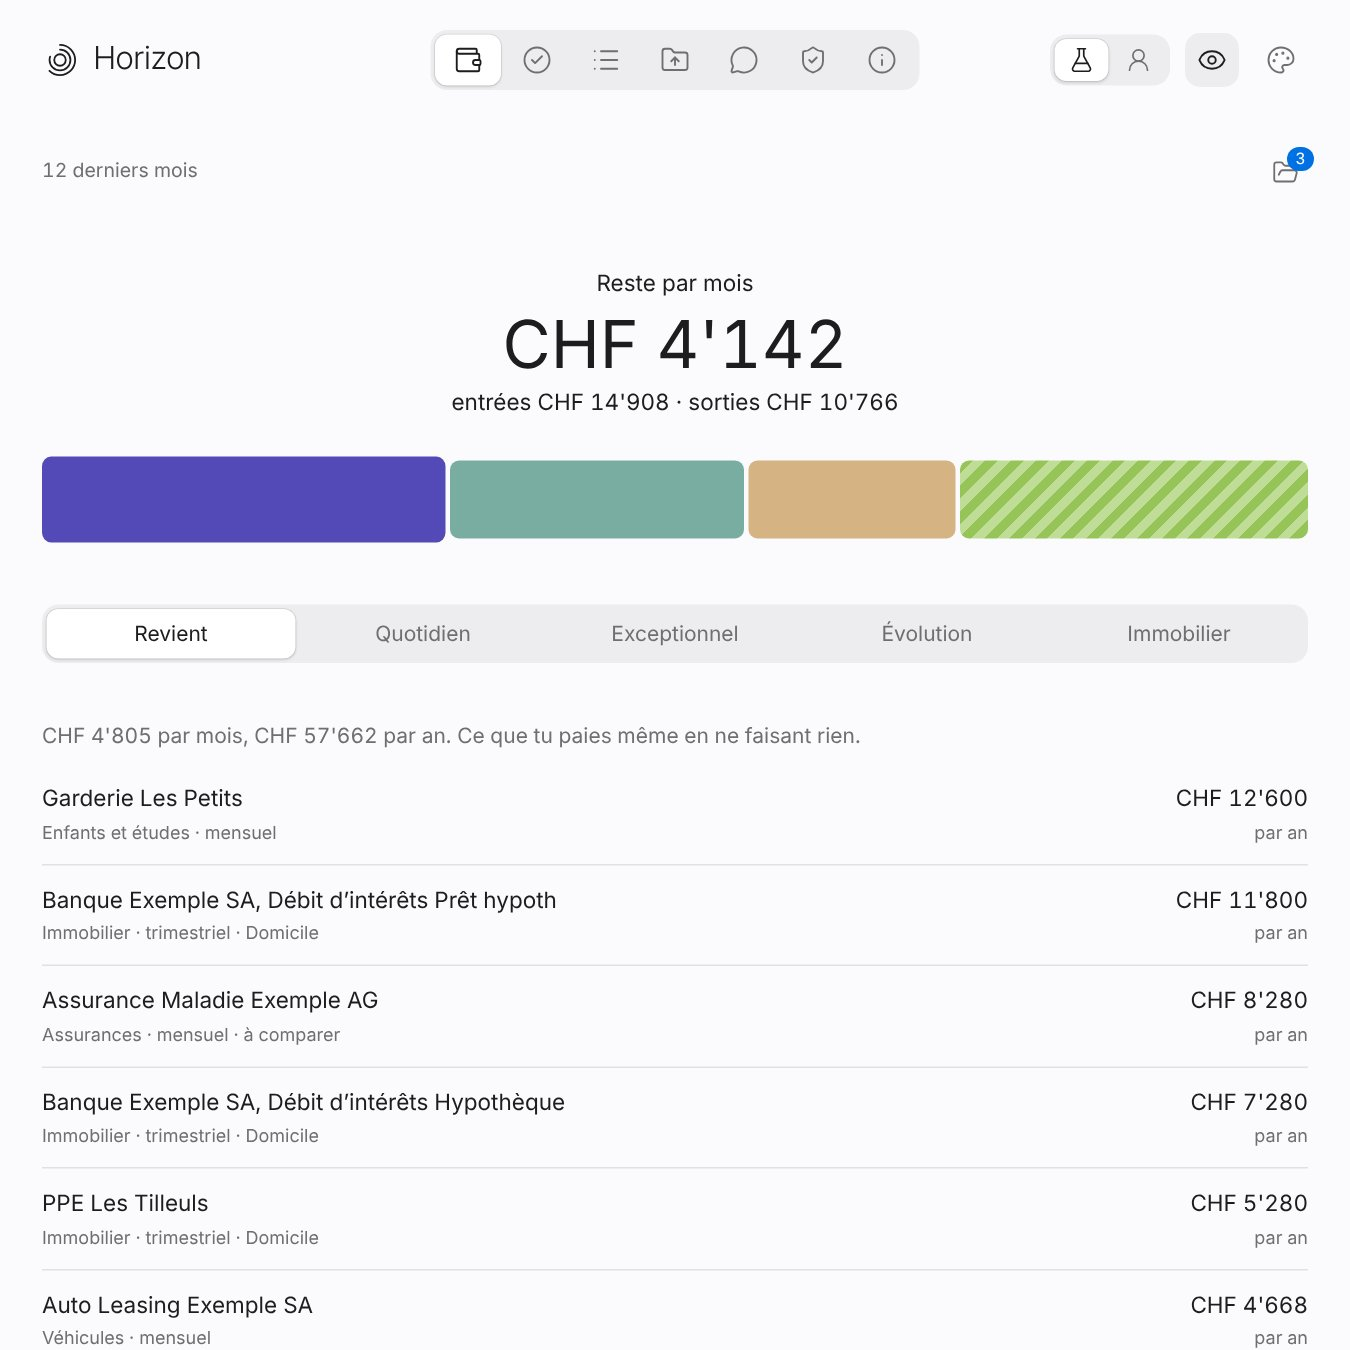
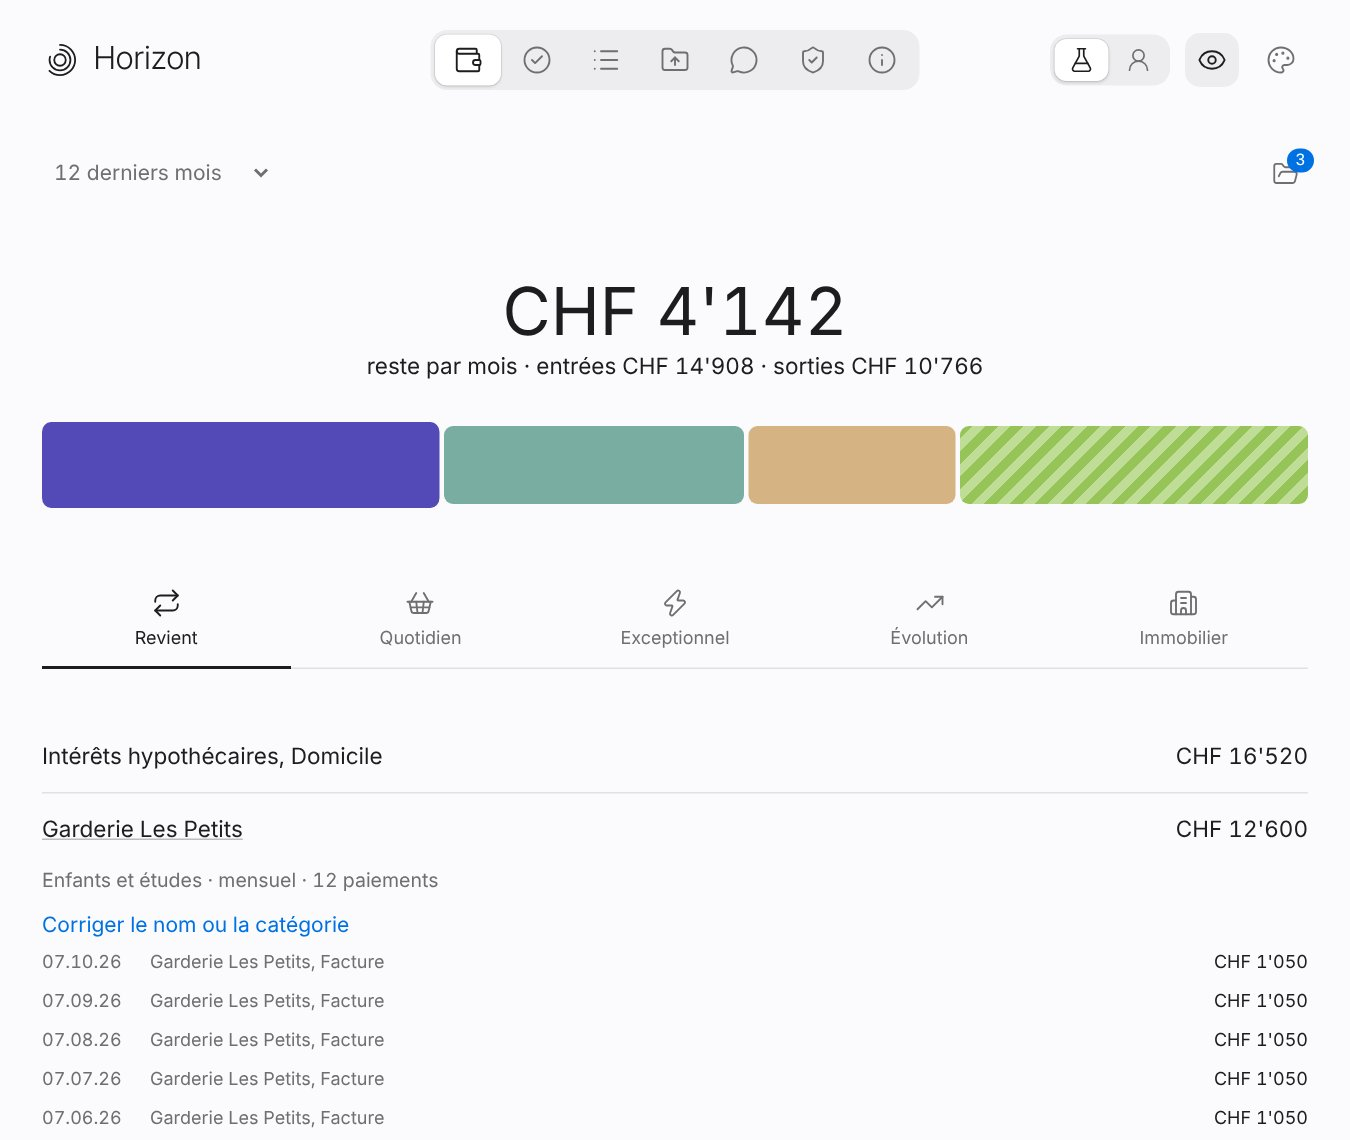
Documentation: captures et README à jour (données fictives)
Claude-Session: https://claude.ai/code/session_01UT5uZqmcmGMjmS4u3UQAYj

diff --git a/README.md b/README.md
@@ -56,7 +56,7 @@ Captures prises sur des données de démonstration inventées (famille fictive c
 
 ![Immobilier par bien](docs/screenshots/immobilier.jpg)
 
-- **Budget** (accueil): ce qui reste par mois, et la répartition des sorties en trois: ce qui revient (hypothèque, assurances, leasings, abonnements, classés par coût annuel), le quotidien (commerçants) et l'exceptionnel (impôts, travaux, grosses dépenses). Chaque fournisseur est comparé à lui-même sur la même durée un an plus tôt (onglet Évolution), avec les dépenses à comparer ou renégocier. L'onglet Immobilier détaille loyers, charges et net par bien. L'icône dossier ouvre les documents, les lignes à identifier, tes biens et les dépenses hors relevés.
+- **Budget** (accueil): ce qui reste par mois, la répartition des sorties en trois (ce qui revient, le quotidien, l'exceptionnel) et cinq onglets. Chaque ligne s'ouvre sur ses paiements et peut être renommée ou reclassée. Un menu choisit la période (12 mois, une année à ce jour, un mois); les variations comparent les mêmes mois d'une année à l'autre. L'onglet Immobilier détaille loyers, charges et net par bien, avec le décompte annuel de copropriété quand il est dans le dossier. L'icône dossier ouvre les documents, les lignes à identifier, les noms choisis et tes biens.
 - **Importer**: lit un dossier ou des fichiers, masque les identifiants.
 - **À valider**: faits proposés par la lecture des documents, en attente de ton accord.
 - **Données**: tout ce qui est connu, modifiable, avec historique.
